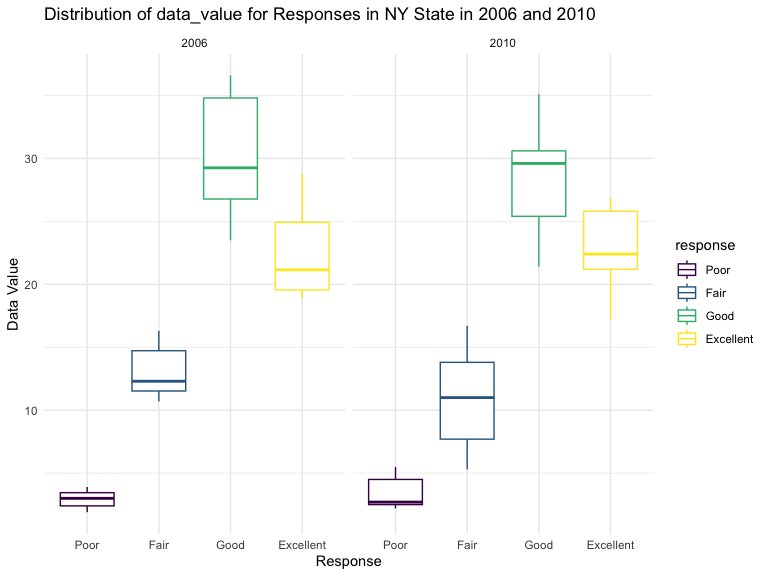
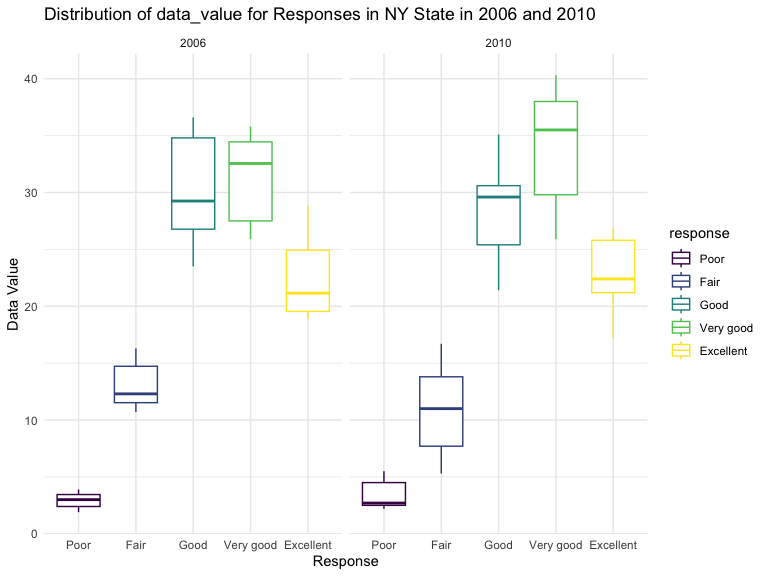
redo the data cleaning and make a plot of Distribution of data_value for Responses in NY State in 2006 and 2010. I missed "Very good" before

diff --git a/p8105_hw3_sc5351.md b/p8105_hw3_sc5351.md
@@ -115,26 +115,26 @@ instacart |>
 
 ``` r
 data("brfss_smart2010")
-brfss_data =
+brfss_data <-
   brfss_smart2010|>
   janitor::clean_names()|>
   rename("state"="locationabbr" , "location"="locationdesc") |>
   filter(topic=='Overall Health')|>
   filter(response %in% c("Excellent","Very good","Good","Fair","Poor"))|>
-  mutate(response = factor(response, levels = c("Poor", "Fair", "Good", "Very Good", "Excellent"), ordered = TRUE))
+  mutate(response = factor(response, levels = c("Poor", "Fair", "Good", "Very good", "Excellent")))
 brfss_data
 ```
 
     ## # A tibble: 10,625 × 23
     ##     year state location     class topic question response sample_size data_value
-    ##    <int> <chr> <chr>        <chr> <chr> <chr>    <ord>          <int>      <dbl>
+    ##    <int> <chr> <chr>        <chr> <chr> <chr>    <fct>          <int>      <dbl>
     ##  1  2010 AL    AL - Jeffer… Heal… Over… How is … Excelle…          94       18.9
-    ##  2  2010 AL    AL - Jeffer… Heal… Over… How is … <NA>             148       30  
+    ##  2  2010 AL    AL - Jeffer… Heal… Over… How is … Very go…         148       30  
     ##  3  2010 AL    AL - Jeffer… Heal… Over… How is … Good             208       33.1
     ##  4  2010 AL    AL - Jeffer… Heal… Over… How is … Fair             107       12.5
     ##  5  2010 AL    AL - Jeffer… Heal… Over… How is … Poor              45        5.5
     ##  6  2010 AL    AL - Mobile… Heal… Over… How is … Excelle…          91       15.6
-    ##  7  2010 AL    AL - Mobile… Heal… Over… How is … <NA>             177       31.3
+    ##  7  2010 AL    AL - Mobile… Heal… Over… How is … Very go…         177       31.3
     ##  8  2010 AL    AL - Mobile… Heal… Over… How is … Good             224       31.2
     ##  9  2010 AL    AL - Mobile… Heal… Over… How is … Fair             120       15.5
     ## 10  2010 AL    AL - Mobile… Heal… Over… How is … Poor              66        6.4
@@ -242,7 +242,8 @@ locations in NY State.
 
 ``` r
 plot_data <- brfss_data |>
-  filter(state == "NY" & year %in% c(2006, 2010) & response %in% c("Poor", "Fair", "Good", "Very Good", "Excellent"))
+  filter(year %in% c("2006", "2010"),state == "NY")|>
+  select(year, state, location, response, data_value)
 plot_data |>
   ggplot(aes(x = response,y = data_value, color=response))+
   geom_boxplot()+
